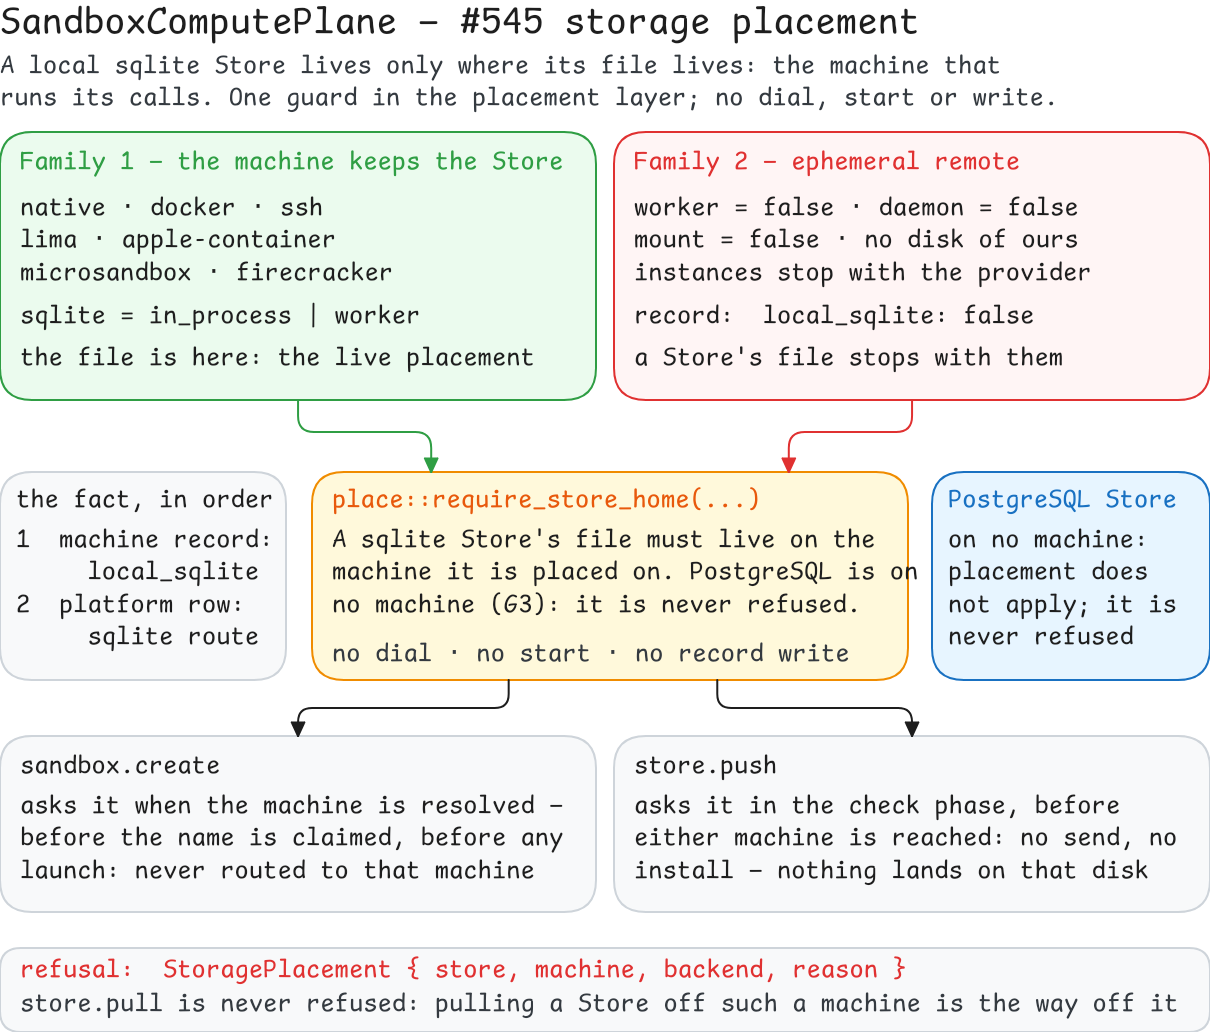
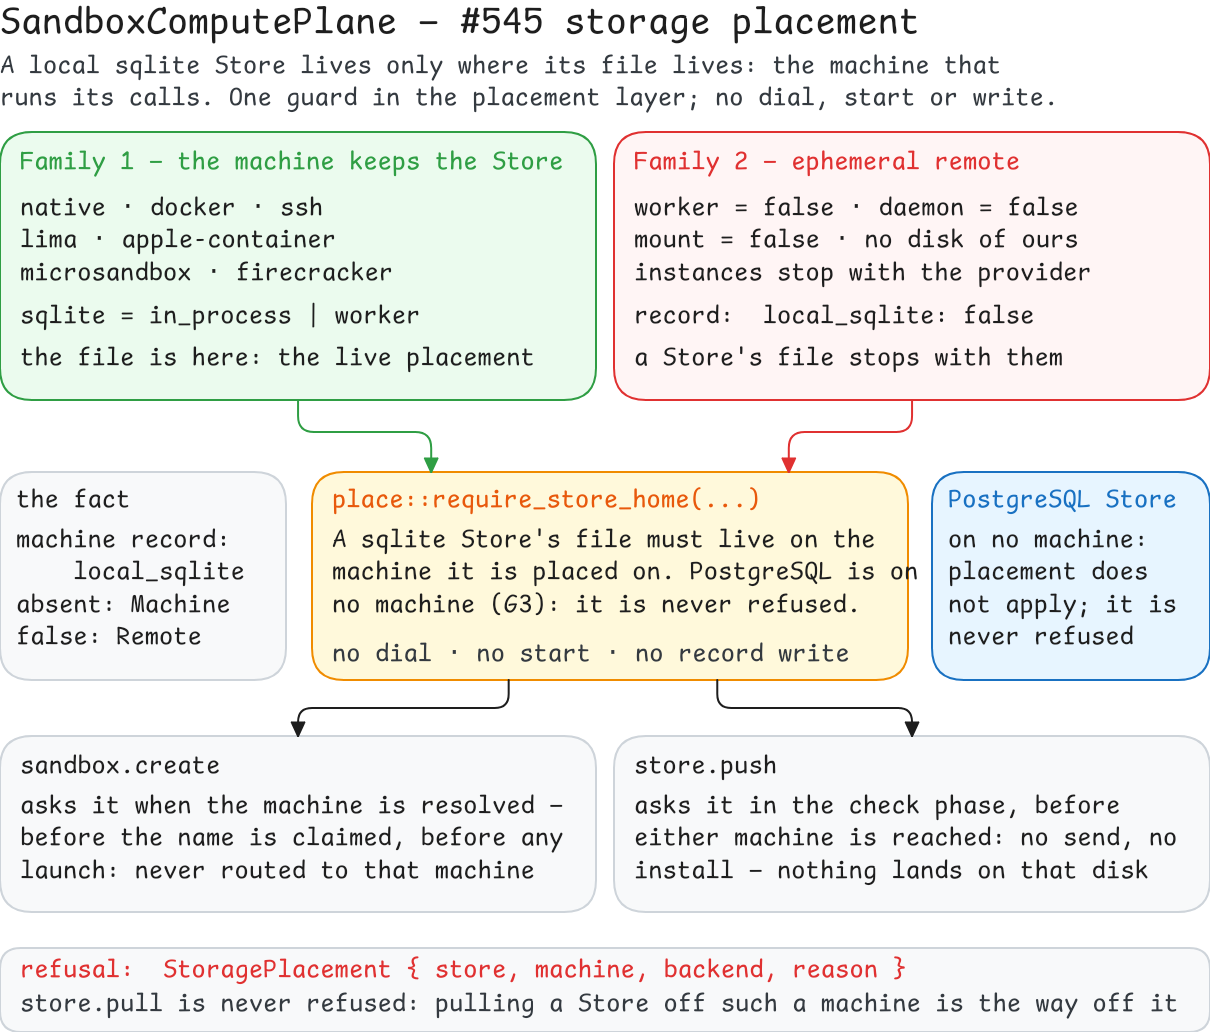
docs(545): the machine record is the only placement fact
The README's "fact, in order" becomes one fact: `local_sqlite`, with
`true`/absent meaning `Machine`, `false` meaning `Remote`, and anything
else `InvalidInput`. It records the Linux `lima` regression the old
platform-row fallback caused.

The diagrams drop the platform-row step: the architecture scene shows the
one fact and the absent/false answers, and the sequence scene shows the
absent-field branch. Both were re-exported from their scenes and re-rendered
at the same canvases; the README carries the new PNG sha256s.

Changed region(s): [[0.0, 0.4651, 0.214, 0.6512]]

diff --git a/core/docs/issues/545/storage-placement/README.md b/core/docs/issues/545/storage-placement/README.md
@@ -11,19 +11,30 @@ may quietly route a Store there. The guard is one decision in the placement
 layer; both placement paths ask it **before** they reach a machine, so a
 refusal leaves nothing behind.
 
-## The fact, in order
+## The fact
 
 | source | says | written by |
 | --- | --- | --- |
 | `machine/<name>/record.json` field `local_sqlite` | whether *this* machine keeps a sqlite Store's file | a Family 2 backend, when it creates or connects its machine — no platform this build names writes it |
-| the platform's row in the one support table (`layerfs_machine::support`, rendered by `connect/SUPPORT.json` and `machine.platforms`) | where a sqlite Store's calls run on this host — `sqlite: in_process` or `worker`, else no route | the platform table, per host |
 
-A record that writes `local_sqlite: false` is refused without consulting the
-row; a record that does not say takes its platform's answer; anything other
-than `true`/`false` is `InvalidInput`. Every platform built here is Family 1
-(`sqlite: in_process | worker`), so no machine that exists today changes
-behaviour. A machine with no record is not refused here: the step that
-resolves the machine refuses `NotFound`.
+The machine record is the only fact. The policy asks no platform support
+table and no host, so the same record gets the same answer everywhere:
+
+| record | answer |
+| --- | --- |
+| `local_sqlite: true` | `Machine` — allowed |
+| `local_sqlite: false` | `Remote` — refused `StoragePlacement` |
+| field absent | `Machine` — allowed; a backend that did not say keeps its Store, the compatible answer for every platform this build names |
+| anything other than `true`/`false` | `InvalidInput` |
+| no machine record | allowed here; the step that resolves the machine refuses `NotFound` |
+
+Only a Family 2 backend that writes `local_sqlite: false` changes a
+machine's behaviour. The older fallback to the platform's support row — where
+a sqlite Store's calls run **on this host** — is gone: it made this policy
+depend on the host and disagreed with the machine record. On Linux it also
+refused a `lima` machine whose row had no sqlite route, even though its record
+never said it keeps no Store; the record-only answer restores the compatible
+answer on every host.
 
 ## The decision
 
@@ -57,9 +68,9 @@ platform: only the *Store* cannot live there, not the compute.
 ## Tests
 
 `api/crates/layerfs-api/tests/storage_placement.rs`, through the call surface,
-on a home whose machine `dev` records `local_sqlite: false` — so they hold on
-every host and in both builds of this layer (with and without the `machine`
-feature):
+on homes whose machine `dev` records what each case asks about — every case
+holds on every host and in both builds of this layer (with and without the
+`machine` feature), because the fact is the record, not the host:
 
 | test | asserts |
 | --- | --- |
@@ -67,14 +78,20 @@ feature):
 | `a_postgresql_store_is_never_refused_by_placement` | the same create is refused by its own machine checks, never by placement |
 | `a_push_to_a_machine_that_keeps_no_disk_is_refused` | `store.push` is `StoragePlacement`; the same push to a machine that keeps its Store goes on to dial its worker (`Unavailable`) |
 | `a_pull_from_a_machine_that_keeps_no_disk_stays_the_way_off` | `store.pull` is never `StoragePlacement` |
-| `a_machine_record_that_does_not_say_whether_it_keeps_a_store_is_refused` | a `local_sqlite` that is not true or false is `InvalidInput` |
+| `a_machine_record_without_local_sqlite_is_allowed` | the field absent is `Machine`: a `lima` push goes on to dial its worker (`Unavailable`), never `StoragePlacement` |
+| `a_machine_record_that_says_it_keeps_a_store_is_allowed` | `local_sqlite: true` is `Machine`: `store.push` goes on to dial its worker (`Unavailable`) |
+| `a_machine_record_with_an_invalid_local_sqlite_is_refused` | a `local_sqlite` that is not true or false is `InvalidInput` |
+
+## Doctor
+
+`layerfs doctor` reports an error on a `store/<s>` whose `sqlite.machine` names
+a machine whose record says `local_sqlite: false`, or whose `local_sqlite`
+cannot be read: the two write paths make that state unreachable from this
+build, but an old or hand-edited home is still worth a report. The finding
+names `store pull <s>` and the machine record to repair.
 
 ## Not in this change
 
-- The doctor invariant the review asked for beside the two calls (`store/<s>`
-  whose `sqlite.machine` names a `local_sqlite: false` machine is a `doctor`
-  error): not built here; the two write paths make the state unreachable from
-  this build, and an old or hand-edited home is still worth a report.
 - The SQLite snapshot route (push/pull of a snapshot instead of a live Store):
   `store.pull` is the only route off today.
 - Any Family 2 adapter. The guard lands first on purpose: the fact is a record
@@ -89,16 +106,17 @@ rendered from, element for element.
 
 - [`architecture.png`](architecture.png),
   [`architecture.excalidraw`](architecture.excalidraw) (35 elements) — Store
-  placement: Family 1 vs Family 2, the fact in order, the one decision, the
-  two guard points, and the PostgreSQL exception.
+  placement: Family 1 vs Family 2, the fact (the machine record's
+  `local_sqlite`: `absent` is `Machine`, `false` is `Remote`), the one
+  decision, the two guard points, and the PostgreSQL exception.
 - [`sequence.png`](sequence.png), [`sequence.excalidraw`](sequence.excalidraw)
-  (30 elements) — create/push → query the placement → allow or refuse, with
-  what each answer lets happen.
+  (30 elements) — create/push → query the placement → the record's
+  `local_sqlite` → allow or refuse, with what each answer lets happen.
 
 | Scene | Id | Canvas | Source | PNG sha256 |
 | --- | --- | --- | --- | --- |
[4 lines of base64/hex data omitted]
 
 Each source's bounds are the PNG's canvas, every text element is Comic Shanns
 at 26 or 38 px, no text passes x = 1234, and re-rendering either scene yields
